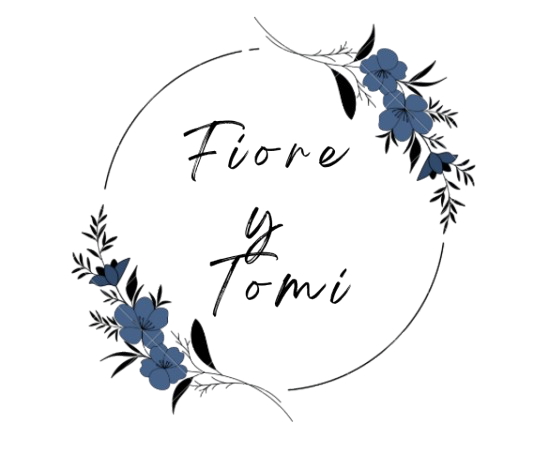
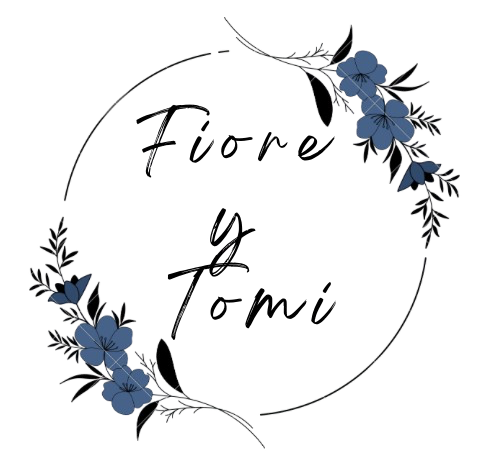
Foto

diff --git a/src/app/components/Hero.js b/src/app/components/Hero.js
@@ -1,7 +1,7 @@
 import React from 'react'
 import Image from "next/image";
-// import FioreyTomi from "../../images/FioreyTomiBlack4.png";
-import FioreyTomi from "../../images/FioreyTomiBlack2.png";
+import FioreyTomi from "../../images/FioreyTomiBlack4.png";
+// import FioreyTomi from "../../images/FioreyTomiBlack2.png";
 import CountUp from 'react-countup';
 
 
